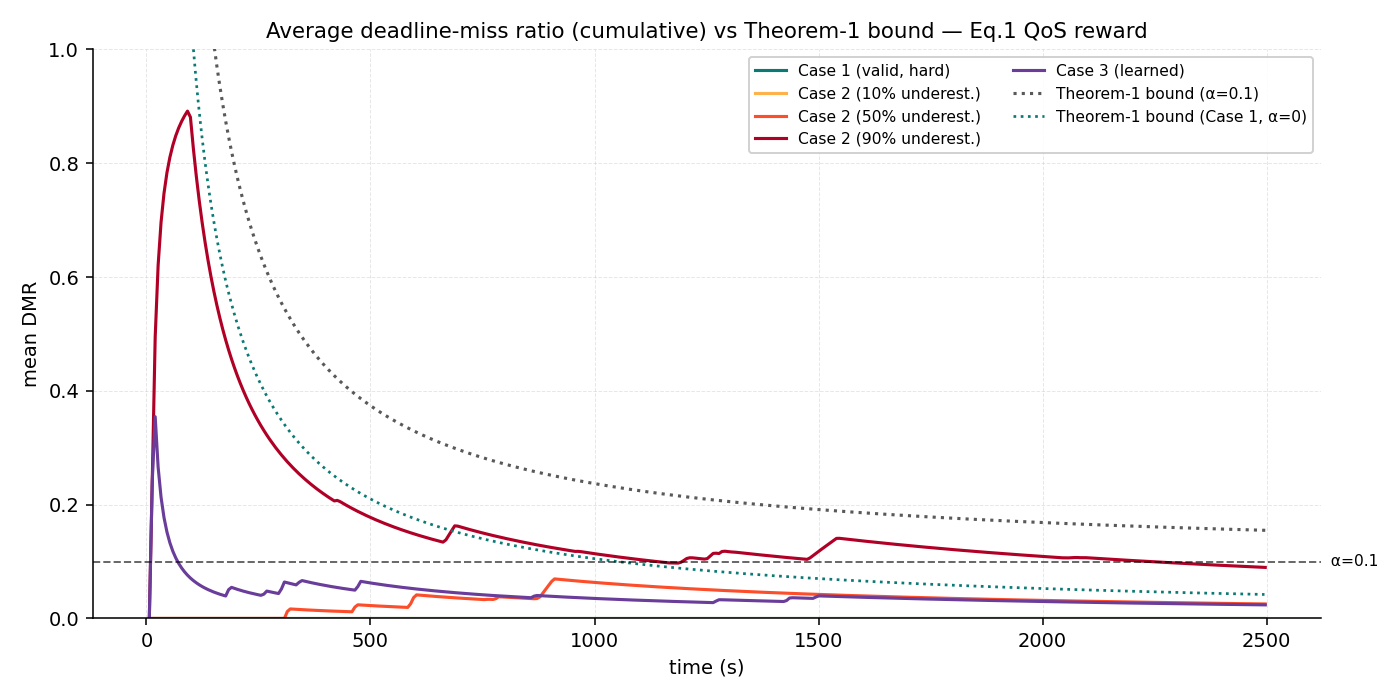
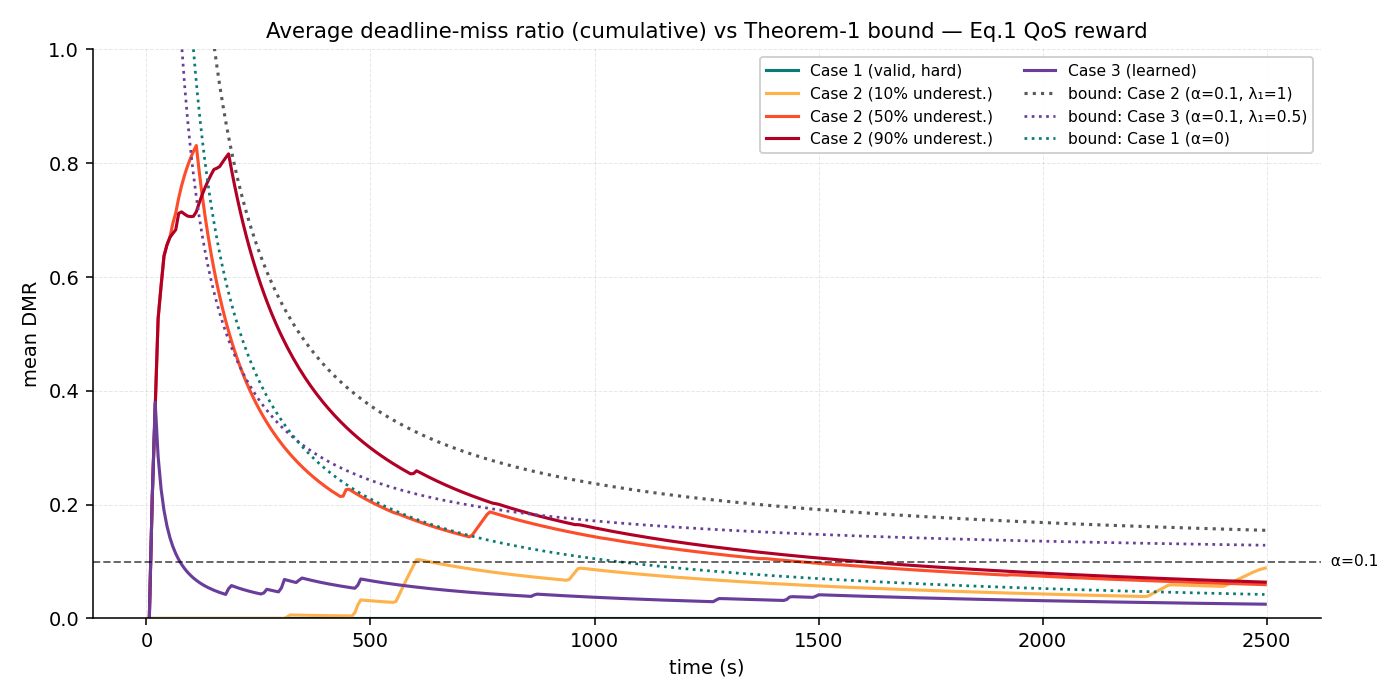
Figures: plot the bounded quantity M_k (missed/releasable); add recorder columns
The avg-DMR figure compared a cumulative terminate-membership DMR against the
Theorem-1 bound, but the theorem bounds M_k = missed / max-releasable jobs (Eq. 1,
loss_mode releasable). The terminate DMR is larger and could poke above the bound.
Record n_job_releasable / eps_carry / w_sz / risk_score in windows.csv and plot
M_k = n_miss_jobs / n_job_releasable, so realized curves correctly stay under the
per-group bound envelopes.

diff --git a/patrol/sim/recorder.py b/patrol/sim/recorder.py
@@ -24,11 +24,11 @@ class RunRecorder:
     # Fixed column schema for windows.csv. Missing keys are written blank, so the same
     # schema serves every controller mode (fcs/rl/profile).
     WINDOW_COLUMNS = [
-        "w_id", "t_start", "t_end",
+        "w_id", "t_start", "t_end", "w_sz",
         "act_util", "ref_util", "util_err",
-        "n_jobs", "n_miss_jobs", "dmr", "miss",
+        "n_jobs", "n_miss_jobs", "n_job_releasable", "dmr", "miss", "eps_carry",
         "avg_qos", "value", "reward",
-        "safe_fallback", "rcrl_lambda", "guard_mode", "shield_active",
+        "safe_fallback", "rcrl_lambda", "risk_score", "guard_mode", "shield_active",
     ]
 
     def __init__(self, run_dir):
@@ -57,18 +57,22 @@ class RunRecorder:
             "w_id": w_id,
             "t_start": wr[0],
             "t_end": wr[1],
+            "w_sz": entry.get("w_sz"),
             "act_util": entry.get("act_util"),
             "ref_util": entry.get("ref_util"),
             "util_err": entry.get("util_err"),
             "n_jobs": entry.get("n_jobs"),
             "n_miss_jobs": entry.get("n_miss_jobs"),
+            "n_job_releasable": entry.get("n_job_releasable"),
             "dmr": dmr,
             "miss": 1 if dmr > 0.0 else 0,
+            "eps_carry": entry.get("eps_carry"),
             "avg_qos": entry.get("avg_qos"),
             "value": entry.get("value"),
             "reward": entry.get("reward"),
             "safe_fallback": "" if sf is None else int(bool(sf)),
             "rcrl_lambda": entry.get("rcrl_lambda"),
+            "risk_score": entry.get("risk_score"),
             "guard_mode": guard_mode or "",
             "shield_active": "" if entry.get("shield_active") is None else int(bool(entry.get("shield_active"))),
         }

diff --git a/scripts/fig_three_cases.py b/scripts/fig_three_cases.py
@@ -108,7 +108,12 @@ def latest_windows_csv(tag):
 
 
 def load_series(tag):
-    """Return dict with t (seconds), util, dmr, avg_dmr (cumulative mean)."""
+    """Return dict with t (seconds), util, dmr, avg_dmr (cumulative mean).
+
+    'dmr' is the per-window miss ratio M_k = missed / max-releasable jobs (paper Eq. 1) — the
+    quantity Theorem 1 bounds — computed from n_miss_jobs / n_job_releasable when available,
+    else the recorded terminate-membership dmr.
+    """
     path = latest_windows_csv(tag)
     if not path:
         raise FileNotFoundError(f"no windows.csv for {tag}")
@@ -117,7 +122,12 @@ def load_series(tag):
         try:
             t.append(float(r["t_end"]) / 1000.0)   # ms -> s
             util.append(float(r["act_util"]))
-            dmr.append(float(r["dmr"]))
+            nrel = float(r.get("n_job_releasable") or 0)
+            if nrel > 0:
+                mk = float(r.get("n_miss_jobs") or 0) / nrel
+            else:
+                mk = float(r.get("dmr") or 0)
+            dmr.append(min(1.0, mk))
         except (KeyError, ValueError):
             continue
     avg, s = [], 0.0
